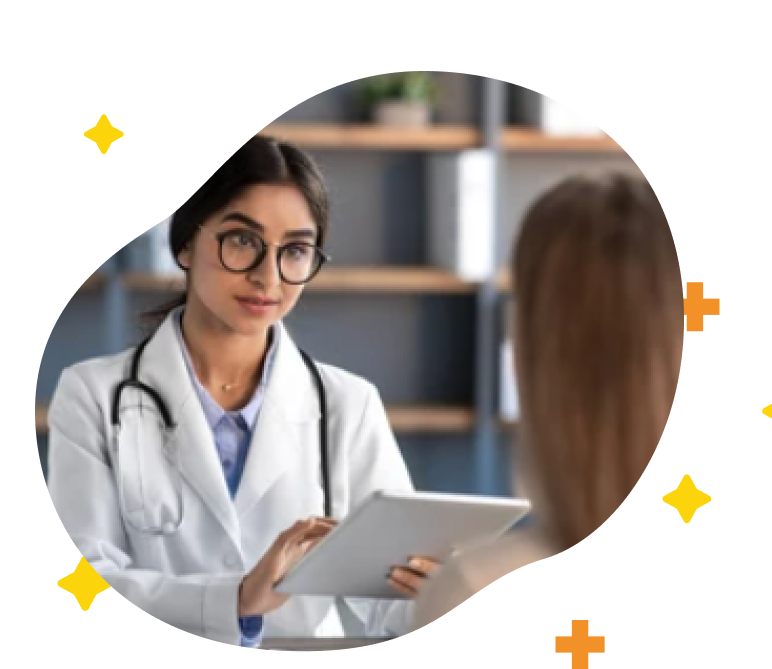
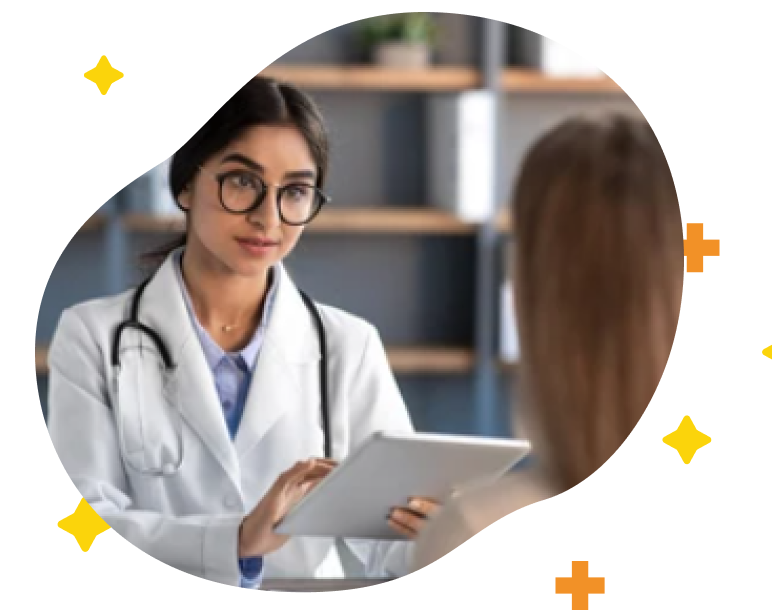
conflit fixed

diff --git a/src/markup/pages/index.jsx b/src/markup/pages/index.jsx
@@ -187,8 +187,8 @@ class Index extends Component {
                     <div class="auto-container">
                         <div class="sec-title text-center">
                             <h2 className='fontwidth'>Confused about your health checks?<br></br>
-                                <span className='headeingcolorblack font25'> Scan our </span>
-                                <span className='headeingcolorblue font25'>BH Smart Guide<span className='headeingcolorblack'>!</span></span>
+                                <span className='headeingcolorblack'> Scan our </span>
+                                <span className='headeingcolorblue'>BH Smart Guide<span className='headeingcolorblack'>!</span></span>
                             </h2>
                         </div>
 
@@ -244,7 +244,7 @@ class Index extends Component {
                             <h2 style={{ fontSize: 43 + 'px', lineHeight: 50 + 'px' }}> <span className=' headeingcolorblue'> Annual Preventive </span>
                                 <span className='headeingcolorblack'>Health Plans</span>
                             </h2>
-                            <h5 className='heading margintextbotton'>Membership-based integrated programs covering various aspects
+                            <h5 className='heading'>Membership-based integrated programs covering various aspects
                             </h5>
                         </div>
 
@@ -257,10 +257,10 @@ class Index extends Component {
                                 <div class="col-lg-6">
                                     <div class="content-box">
                                         <div class="sec-title">
-                                            <div class="text textpadding1 fontSize18">
-                                                <span className='headeingcolorblue'>#BridgeTheGap</span> with our Annual Health Plans that are membership-based 
-                                                integrated programs covering everything from clinical assessments to 
-                                                consultations, lab tests to nutrition sessions, lifestyle management to emotional wellness and much more.
+                                            <div class="text textpadding1">
+                                                <span className='headeingcolorblue'>#BridgeTheGap</span> with our Annual Health<br></br> Plans that are membership-based <br></br>
+                                                integrated programs covering everything <br></br>from clinical assessments to <br></br>
+                                                consultations, lab tests to nutrition <br></br>sessions, lifestyle management to<br></br> emotional wellness and much more.
                                             </div>
                                         </div>
 
@@ -736,7 +736,7 @@ class Index extends Component {
                         </a>
                     </Modal.Header>
                 </Modal>
-                
+
                 <Footer />
             </>
         )

diff --git a/src/assets/css/style.css b/src/assets/css/style.css
@@ -11121,7 +11121,7 @@ a:not([href]):not([tabindex]) {
 .blogdesigner {
 	width: 100%;
 	background-position: top;
-	background-size: 100% 136%;
+	background-size: 100% 118%;
 	background-repeat: no-repeat;
 	background-image: url(../images/shape//blogback.png);
 }
@@ -11137,6 +11137,8 @@ a:not([href]):not([tabindex]) {
 	background-image: url(../images/shape//b2c1.png);
 	background-repeat: no-repeat;
 	padding-top: 150px;
+	background-size: contain;
+	margin-top: -6%;
 	padding-bottom: 150px;
 
 
@@ -11261,9 +11263,10 @@ a:not([href]):not([tabindex]) {
 
 .annualback {
 	background-image: url(../images/background/personalBackground.png);
-	background-size: cover;
-	padding-top: 150px;
-	padding-bottom: 150px;
+	background-size: contain;
+    padding-top: 189px;
+    padding-bottom: 150px;
+    background-repeat: no-repeat;
 }
 
 
@@ -11445,12 +11448,12 @@ hr {
 	}
 
 	.form-group1 {
-		width: 250px !important;
+		width: 218px !important;
 	}
 
 	.p-5 {
 		padding: 2rem !important;
-		margin-left: -42px;
+		margin-left: -32px;
 	}
 
 	.fonts {
@@ -12222,7 +12225,7 @@ hr {
 .linkdinicon1 {
 	box-shadow: none !important;
 	text-align: center;
-	margin-left: 32% !important;
+	margin-left: 35% !important;
 	margin-top: 9px !important;
 	font-size: 40px;
 	color: #fff;
@@ -14365,4 +14368,89 @@ button.sub-btn1 {
     margin-left: 40%;
 }
 
+
+.blog-bgcolor {
+	background-color: #FFFFFF;
+}
+
+
+.health-plan .health-plan-item ul:nth-child(2) {
+    height: 720px;
+}
+.health-plan .health-plan-item ul:nth-child(3) {
+    height: 500px	;
+    margin: 0px;
+}
+.health-plan .health-plan-item ul:nth-child(3) li {
+    height: 72px;
+    display: block;
+    margin: 0px !important;
+}
+.health-plan .health-plan-item ul:nth-child(4) {
+    height: 250px;
+    margin: 0px;
+}
+.health-plan .health-plan-item ul:nth-child(4) li {
+    height: 60px;
+    margin: 0px;
+    display: block;
+}
+.health-plan ul li {
+    height: 50px;
+}
+.health-plan .platinum-plus ul li:last-child, .health-plan .silver ul li:last-child, .health-plan .gold ul li:last-child, .health-plan .platinum ul li:last-child {
+    height: 120px;
+    display: block;
+}
+.health-plan .buy-btn {
+    margin: 0px;
+}
+.marging
+{
+	margin-left: -60px;
+}
+.fontrem
+{
+	font-size: 3rem !important;
+}
+.fontSize18
+{
+	font-size: 28px;
+}
+.blogPagebackground
+{
+	margin-top: -6%;
+}
+.blogPagebox
+{
+	padding-top: 8%;
+}
+@media only screen and (max-width: 767px)
+{.sec-title h2 br {
+    display: block !important;
+}
+}
+
+@media only screen and (max-width: 600px) {
+.font25
+{
+	font-size: 23px !important;
+}
+.margintextbotton
+{
+			margin-bottom: 30px;
+
+}
+.martextleft40
+{
+	margin-left: 0px !important;
+}
+.marginleftspan {
+    margin-left: 0px !important;
+}
+}
+.heathCareTitle
+{
+    font-size: 50px !important;
+}
 

diff --git a/src/markup/pages/ophthalmologists.jsx b/src/markup/pages/ophthalmologists.jsx
@@ -112,12 +112,8 @@ class ophthalmologist extends Component {
                 </section>
                 <section class="">
                     <div class="auto-container">
-                    <h2 className='header1 text-center'>
-                                        <span className='headeingcolorblack'> The</span>
-                                        <span className='headeingcolorblue'>  Bridge Health</span>
-                                        <span className='headeingcolorblack'> Advantage </span>
-                                    </h2>
-                        <div class="row flex-column-reverse">
+                
+                                    <div class="row align-items-center">
                             <div class="col-lg-6">
                                 <div class="image-wrapper">
                                     <div class="image-one">
@@ -127,11 +123,11 @@ class ophthalmologist extends Component {
                             </div>
                             <div class="col-lg-6">
                                 <div class="contact-form-area">
-                                    {/* <h2 className='header1'>
+                                    <h2 className='header1'>
                                         <span className='headeingcolorblack'> The</span>
                                         <span className='headeingcolorblue'>  Bridge Health</span>
                                         <span className='headeingcolorblack'> Advantage </span>
-                                    </h2> */}
+                                    </h2>
                                     <ul className='listicon'>
                                         <li>
                                             Eye care tips

diff --git a/src/markup/pages/personal-membership-program.jsx b/src/markup/pages/personal-membership-program.jsx
@@ -223,7 +223,7 @@ class b2cmembership extends Component {
               <div class="col-lg-5">
                 <div class="contact-form-area margintop145">
                   <div class="sec-title marginto90" >
-                    <h2 className='marginleft texttile1'>
+                    <h2 className='marginleft texttile1 heathCareTitle'>
                       <span className='headeingcolorblack'>Why </span>
                       <span className='headeingcolorblue'> Preventive </span><br></br>
                       <span className='headeingcolorblack '>Health Care?</span>
